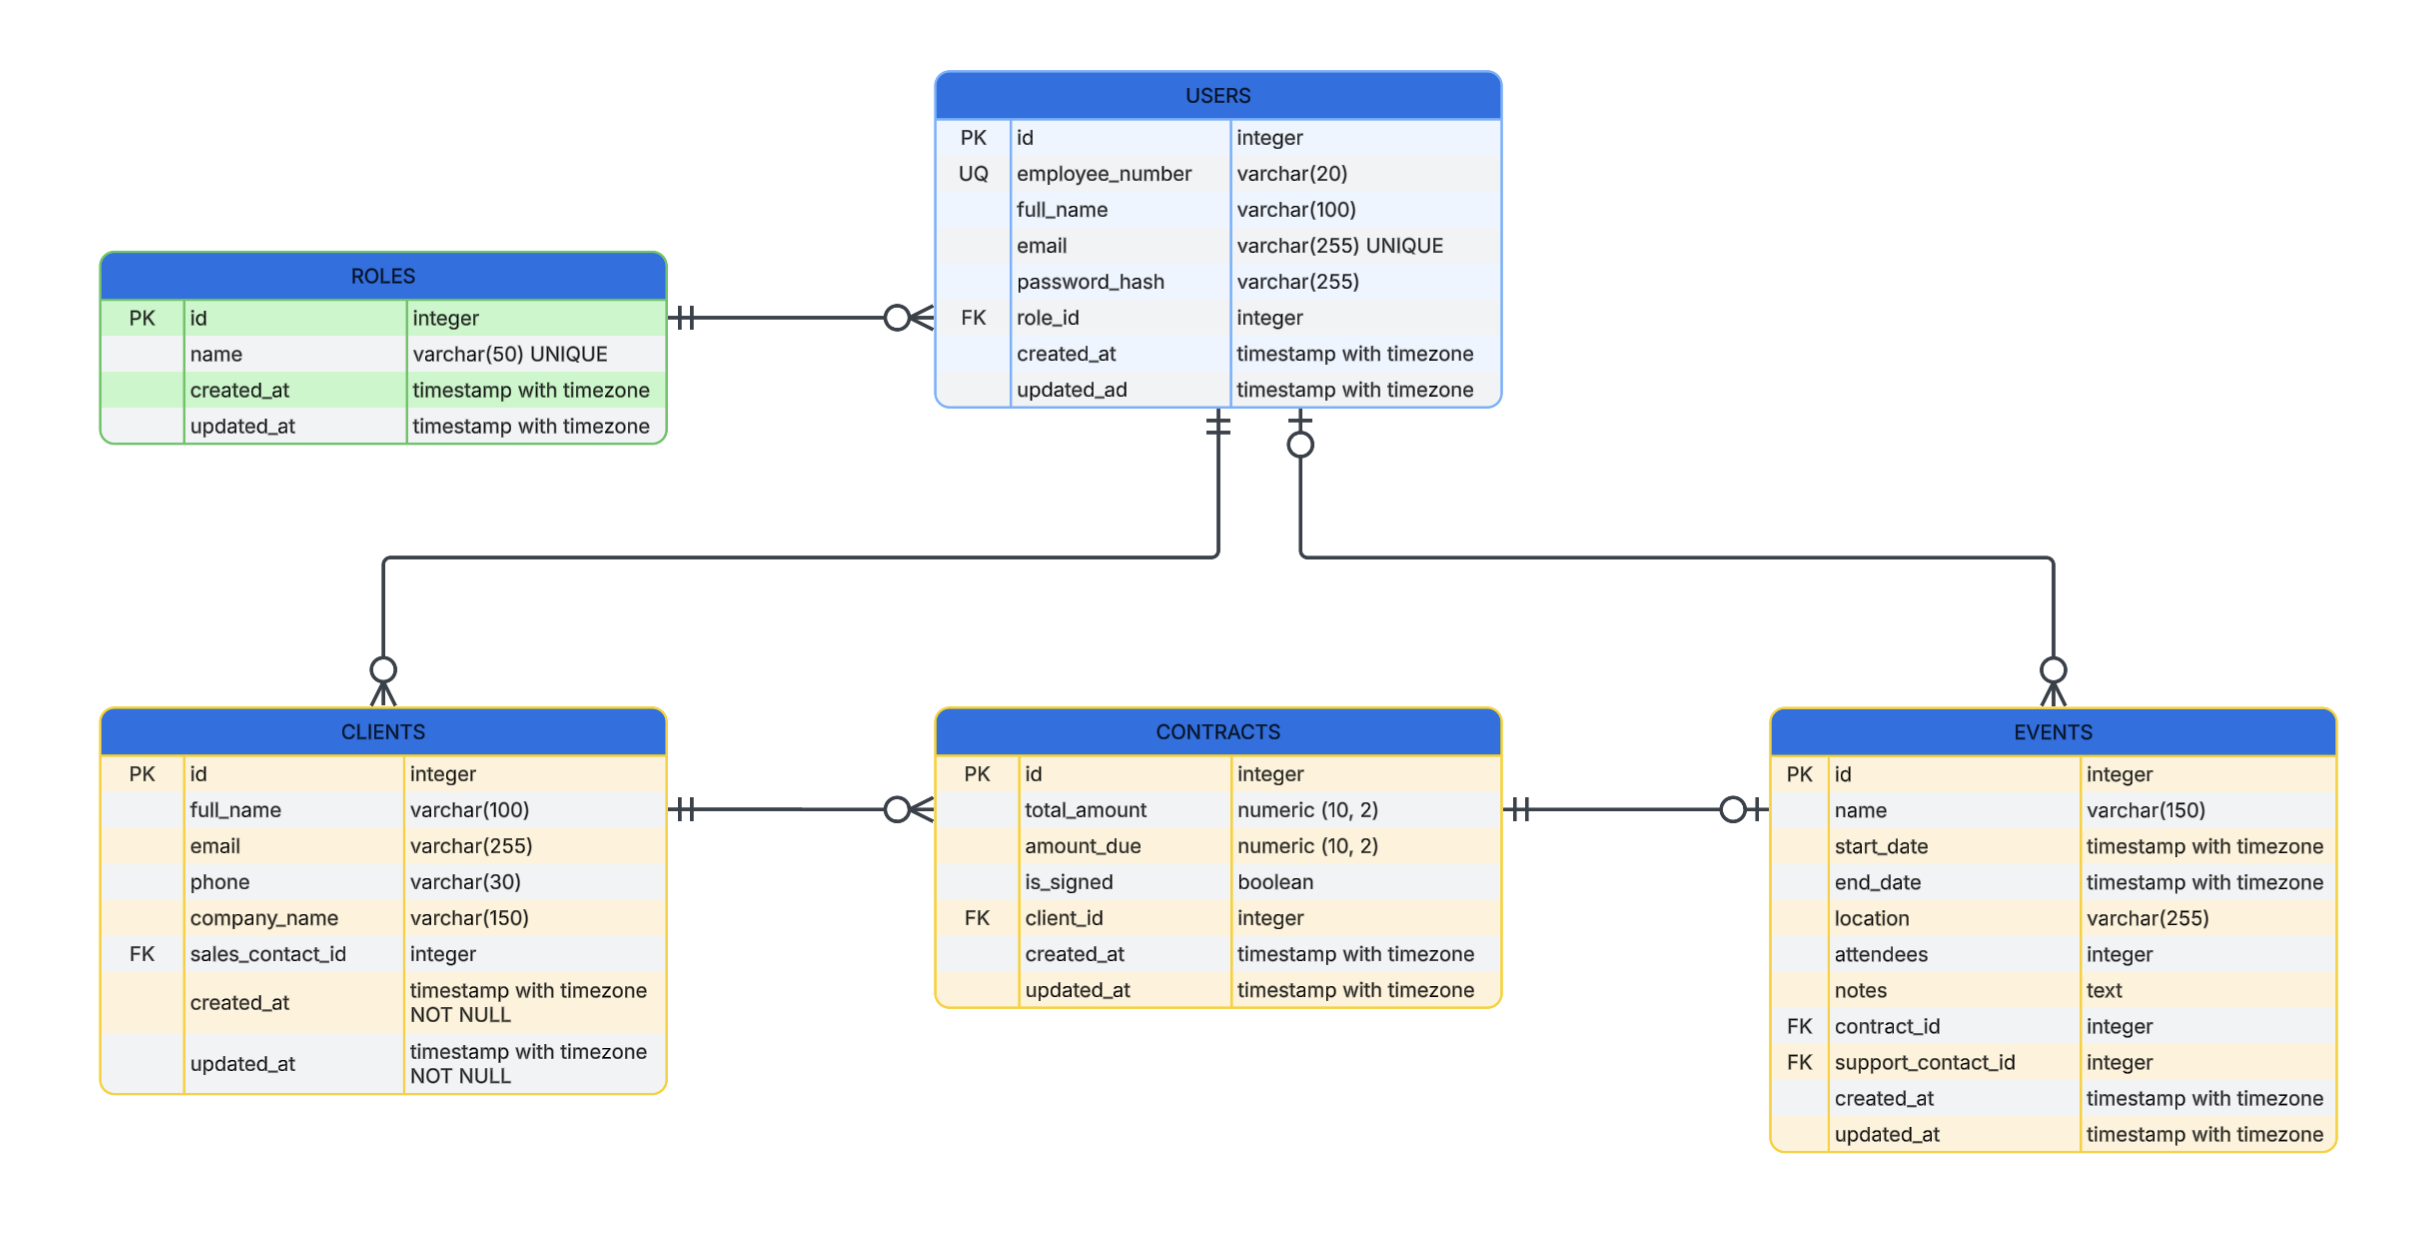
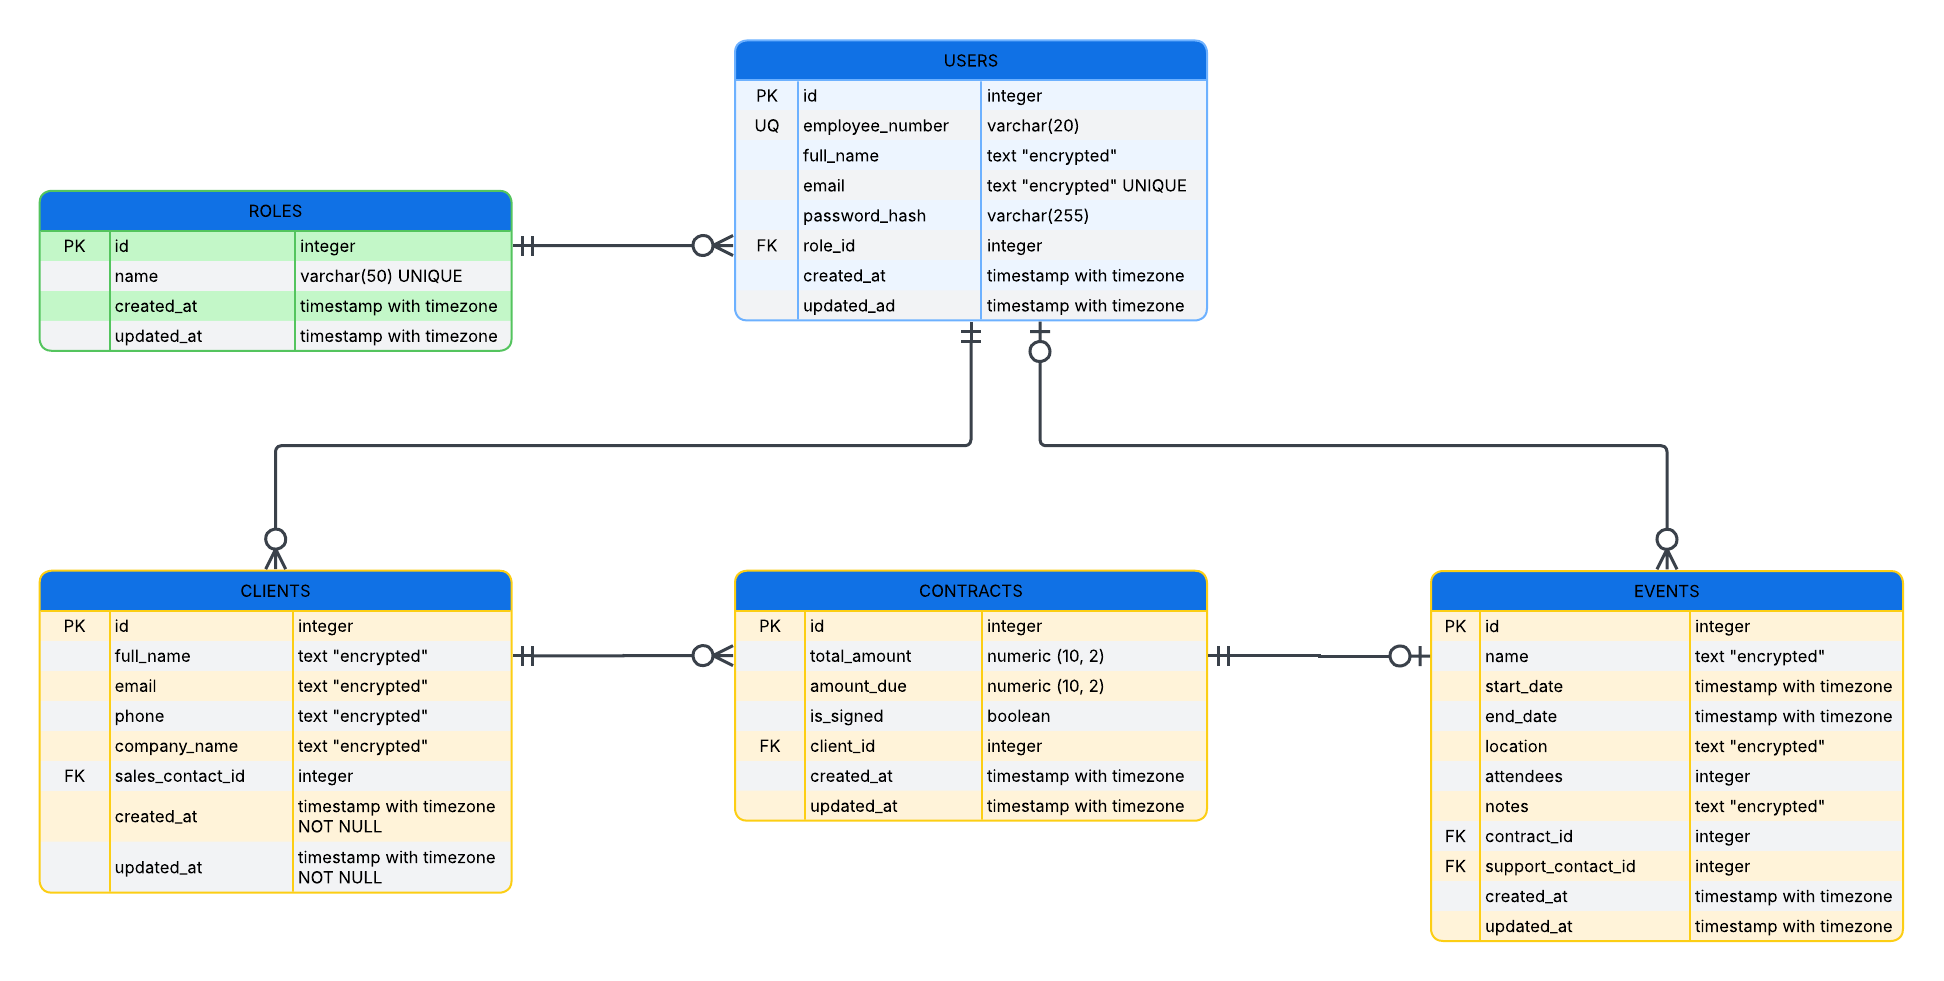
Encrypt personal data in the database

Changed region(s): [[0.0, 0.0306, 0.9877, 0.9786]]

diff --git a/tests/integration/test_encryption.py b/tests/integration/test_encryption.py
@@ -1,0 +1,116 @@
+"""Tests showing that personal data is encrypted in the database."""
+
+import base64
+
+import pytest
+from click.testing import CliRunner
+from sqlalchemy import Text, select, type_coerce
+from sqlalchemy.exc import IntegrityError
+
+from epicevents import config
+from epicevents.controllers.main import cli
+from epicevents.exceptions import ConfigurationError
+from epicevents.models import Client, Event, User
+from epicevents.repositories import ClientRepository, UserRepository
+from tests.conftest import PASSWORD, create_event
+
+OTHER_KEY = base64.urlsafe_b64encode(b"o" * 64).decode()
+
+
+def stored(session, model, column, row_id):
+    """Return the value exactly as the database stores it, without decrypting."""
+    table = model.__table__
+    query = select(type_coerce(table.c[column], Text)).where(table.c.id == row_id)
+    return session.scalar(query)
+
+
+def test_a_client_is_unreadable_in_the_database(session, client):
+    """Name, email, phone and company are stored encrypted."""
+    for column in ("full_name", "email", "phone", "company_name"):
+        assert stored(session, Client, column, client.id) != getattr(client, column)
+
+
+def test_the_application_reads_the_client_in_clear(session, client):
+    """Decryption is automatic: the application sees the original text."""
+    session.expire_all()
+
+    found = ClientRepository(session).get(client.id)
+
+    assert found.full_name == "Kevin Casey"
+
+
+def test_a_collaborator_email_is_unreadable_in_the_database(session, sales_user):
+    assert stored(session, User, "email", sales_user.id) != sales_user.email
+    assert stored(session, User, "full_name", sales_user.id) != (sales_user.full_name)
+
+
+def test_event_details_are_unreadable_in_the_database(
+    session, signed_contract, support_user
+):
+    event = create_event(session, signed_contract, support_user)
+    event.notes = "Kate needs to organize the DJ."
+    session.commit()
+
+    for column in ("name", "location", "notes"):
+        assert stored(session, Event, column, event.id) != getattr(event, column)
+
+
+def test_a_collaborator_is_still_found_by_email(session, sales_user):
+    """Deterministic encryption: the searched email is encrypted the same way."""
+    session.expire_all()
+
+    assert UserRepository(session).get_by_email(sales_user.email).id == sales_user.id
+
+
+def test_an_email_is_still_unique(session, sales_user):
+    """Two identical emails give two identical encrypted values: refused."""
+    duplicate = User(
+        employee_number="EE-999",
+        full_name="Someone Else",
+        email=sales_user.email,
+        password_hash="x",
+        role_id=sales_user.role_id,
+    )
+    session.add(duplicate)
+
+    with pytest.raises(IntegrityError):
+        session.commit()
+
+
+def test_a_missing_key_is_reported(session, client, monkeypatch):
+    monkeypatch.setattr(config, "ENCRYPTION_KEY", None)
+    session.expire_all()
+
+    with pytest.raises(ConfigurationError, match="ENCRYPTION_KEY is missing"):
+        ClientRepository(session).get(client.id).full_name
+
+
+def test_a_malformed_key_is_reported(session, client, monkeypatch):
+    monkeypatch.setattr(config, "ENCRYPTION_KEY", "too-short")
+    session.expire_all()
+
+    with pytest.raises(ConfigurationError, match="not a valid key"):
+        ClientRepository(session).get(client.id).full_name
+
+
+def test_data_encrypted_with_another_key_is_reported(session, client, monkeypatch):
+    """Changing the key makes the existing data unreadable, and says so."""
+    monkeypatch.setattr(config, "ENCRYPTION_KEY", OTHER_KEY)
+    session.expire_all()
+
+    with pytest.raises(ConfigurationError, match="cannot be decrypted"):
+        ClientRepository(session).get(client.id).full_name
+
+
+def test_a_command_reports_a_missing_key_without_a_traceback(
+    cli_database, sales_user, monkeypatch
+):
+    """Searching by email encrypts the email first: a missing key is a message."""
+    email = sales_user.email
+    monkeypatch.setattr(config, "ENCRYPTION_KEY", None)
+
+    result = CliRunner().invoke(cli, ["login", "--email", email], input=f"{PASSWORD}\n")
+
+    assert result.exit_code == 1
+    assert "ENCRYPTION_KEY is missing" in result.stderr
+    assert "Traceback" not in result.output + result.stderr

diff --git a/epicevents/models/encrypted.py b/epicevents/models/encrypted.py
@@ -1,0 +1,61 @@
+"""Encrypted text columns: encrypted when written, decrypted when read."""
+
+import base64
+import binascii
+
+from cryptography.exceptions import InvalidTag
+from cryptography.hazmat.primitives.ciphers.aead import AESSIV
+from sqlalchemy import Text
+from sqlalchemy.types import TypeDecorator
+
+from epicevents import config
+from epicevents.exceptions import ConfigurationError
+
+GENERATE_KEY = (
+    'python -c "import base64, os; '
+    'print(base64.urlsafe_b64encode(os.urandom(64)).decode())"'
+)
+
+
+def _cipher() -> AESSIV:
+    """Return the cipher built from ENCRYPTION_KEY, refusing a missing or bad key."""
+    if not config.ENCRYPTION_KEY:
+        raise ConfigurationError(
+            "ENCRYPTION_KEY is missing from the .env file. "
+            f"Generate one with: {GENERATE_KEY}"
+        )
+    try:
+        return AESSIV(base64.urlsafe_b64decode(config.ENCRYPTION_KEY))
+    except (binascii.Error, ValueError):
+        raise ConfigurationError(
+            "ENCRYPTION_KEY is not a valid key. " f"Generate one with: {GENERATE_KEY}"
+        ) from None
+
+
+class EncryptedString(TypeDecorator):
+    """A text column stored encrypted, and read back in clear by the application."""
+
+    impl = Text
+    cache_ok = True
+
+    def process_bind_param(self, value, dialect):
+        """Encrypt a value on its way to the database."""
+        if value is None:
+            return None
+        encrypted = _cipher().encrypt(value.encode("utf-8"), associated_data=None)
+        return base64.urlsafe_b64encode(encrypted).decode("ascii")
+
+    def process_result_value(self, value, dialect):
+        """Decrypt a value coming back from the database."""
+        if value is None:
+            return None
+        try:
+            decrypted = _cipher().decrypt(
+                base64.urlsafe_b64decode(value), associated_data=None
+            )
+        except (InvalidTag, binascii.Error):
+            raise ConfigurationError(
+                "A database value cannot be decrypted: "
+                "ENCRYPTION_KEY does not match the key used to encrypt it."
+            ) from None
+        return decrypted.decode("utf-8")

diff --git a/epicevents/models/event.py b/epicevents/models/event.py
@@ -3,10 +3,11 @@
 from datetime import datetime
 from typing import TYPE_CHECKING, Optional
 
-from sqlalchemy import ForeignKey, String, DateTime, Integer, Text
+from sqlalchemy import ForeignKey, DateTime, Integer
 from sqlalchemy.orm import Mapped, mapped_column, relationship
 
 from epicevents.models.base import ModelBase
+from epicevents.models.encrypted import EncryptedString
 
 if TYPE_CHECKING:
     from epicevents.models.contract import Contract
@@ -18,14 +19,15 @@ class Event(ModelBase):
 
     __tablename__ = "events"
 
-    name: Mapped[str] = mapped_column(String(150))
+    # Encrypted in the database; lengths are checked by the validators
+    name: Mapped[str] = mapped_column(EncryptedString)
 
     start_date: Mapped[datetime] = mapped_column(DateTime(timezone=True))
     end_date: Mapped[datetime] = mapped_column(DateTime(timezone=True))
 
-    location: Mapped[str] = mapped_column(String(255))
+    location: Mapped[str] = mapped_column(EncryptedString)
     attendees: Mapped[int] = mapped_column(Integer)
-    notes: Mapped[Optional[str]] = mapped_column(Text)
+    notes: Mapped[Optional[str]] = mapped_column(EncryptedString)
 
     # Foreign key to the contract: one contract has at most one event
     contract_id: Mapped[int] = mapped_column(ForeignKey("contracts.id"), unique=True)

diff --git a/epicevents/controllers/errors.py b/epicevents/controllers/errors.py
@@ -2,11 +2,12 @@
 
 import functools
 
-from sqlalchemy.exc import OperationalError
+from sqlalchemy.exc import OperationalError, StatementError
 
 from epicevents.exceptions import (
     AuthenticationError,
     AuthorizationError,
+    ConfigurationError,
     ValidationError,
 )
 from epicevents.views.console import print_error
@@ -24,11 +25,22 @@ def handle_errors(command):
     def wrapper(*args, **kwargs):
         try:
             return command(*args, **kwargs)
-        except (AuthenticationError, AuthorizationError, ValidationError) as error:
+        except (
+            AuthenticationError,
+            AuthorizationError,
+            ValidationError,
+            ConfigurationError,
+        ) as error:
             print_error(str(error))
             raise SystemExit(1)
         except OperationalError:
             print_error(DATABASE_UNREACHABLE)
             raise SystemExit(1)
+        except StatementError as error:
+            # SQLAlchemy wraps an error raised while encrypting a searched value
+            if isinstance(error.orig, ConfigurationError):
+                print_error(str(error.orig))
+                raise SystemExit(1)
+            raise
 
     return wrapper

diff --git a/tests/conftest.py b/tests/conftest.py
@@ -1,5 +1,6 @@
 """Fixtures shared by the test suite."""
 
+import base64
 from datetime import timezone, datetime
 from decimal import Decimal
 
@@ -7,12 +8,15 @@ import pytest
 from sqlalchemy import create_engine, select, event
 from sqlalchemy.orm import sessionmaker
 
-from epicevents import database
+from epicevents import config, database
 from epicevents.services import auth
 from epicevents.database import Base
 from epicevents.models import Role, RoleName, User, Contract, Event, Client
 
 PASSWORD = "DummyPassword42!"
+
+# 64 bytes encoded in base64, the format AES-SIV expects: a fake key for tests.
+TEST_ENCRYPTION_KEY = base64.urlsafe_b64encode(b"k" * 64).decode()
 
 
 @pytest.fixture
@@ -157,6 +161,12 @@ def signed_contract(session, client):
 def test_secret(monkeypatch):
     """Sign the test tokens with a throwaway secret, never the real one."""
     monkeypatch.setattr(auth, "JWT_SECRET", "fake-jwt-secret-for-testing-purposes-only")
+
+
+@pytest.fixture(autouse=True)
+def test_encryption_key(monkeypatch):
+    """Encrypt the test data with a throwaway key, never the real one."""
+    monkeypatch.setattr(config, "ENCRYPTION_KEY", TEST_ENCRYPTION_KEY)
 
 
 @pytest.fixture(autouse=True)

diff --git a/epicevents/models/client.py b/epicevents/models/client.py
@@ -2,10 +2,11 @@
 
 from typing import TYPE_CHECKING
 
-from sqlalchemy import String, ForeignKey
+from sqlalchemy import ForeignKey
 from sqlalchemy.orm import Mapped, mapped_column, relationship
 
 from epicevents.models.base import ModelBase
+from epicevents.models.encrypted import EncryptedString
 
 if TYPE_CHECKING:
     from epicevents.models.contract import Contract
@@ -17,10 +18,11 @@ class Client(ModelBase):
 
     __tablename__ = "clients"
 
-    full_name: Mapped[str] = mapped_column(String(100))
-    email: Mapped[str] = mapped_column(String(255))
-    phone: Mapped[str] = mapped_column(String(30))
-    company_name: Mapped[str] = mapped_column(String(150))
+    # Personal data, encrypted in the database; lengths checked by the validators
+    full_name: Mapped[str] = mapped_column(EncryptedString)
+    email: Mapped[str] = mapped_column(EncryptedString)
+    phone: Mapped[str] = mapped_column(EncryptedString)
+    company_name: Mapped[str] = mapped_column(EncryptedString)
 
     # Foreign key: each client is assigned to one sales user
     sales_contact_id: Mapped[int] = mapped_column(ForeignKey("users.id"))

diff --git a/epicevents/models/user.py b/epicevents/models/user.py
@@ -6,6 +6,7 @@ from sqlalchemy import String, ForeignKey
 from sqlalchemy.orm import Mapped, mapped_column, relationship
 
 from epicevents.models.base import ModelBase
+from epicevents.models.encrypted import EncryptedString
 from epicevents.security import hash_password, verify_password
 
 if TYPE_CHECKING:
@@ -20,8 +21,9 @@ class User(ModelBase):
     __tablename__ = "users"
 
     employee_number: Mapped[str] = mapped_column(String(20), unique=True)
-    full_name: Mapped[str] = mapped_column(String(100))
-    email: Mapped[str] = mapped_column(String(255), unique=True)
+    # Encrypted in the database; lengths checked by the validators
+    full_name: Mapped[str] = mapped_column(EncryptedString)
+    email: Mapped[str] = mapped_column(EncryptedString, unique=True)
     password_hash: Mapped[str] = mapped_column(String(255))
 
     # Foreign key

diff --git a/epicevents/exceptions.py b/epicevents/exceptions.py
@@ -23,3 +23,7 @@ class AuthorizationError(Exception):
 
 class ValidationError(Exception):
     """Raised when what the collaborator asked for cannot be accepted."""
+
+
+class ConfigurationError(Exception):
+    """Raised when a setting of the .env file is missing or wrong."""

diff --git a/epicevents/config.py b/epicevents/config.py
@@ -16,6 +16,8 @@ DATABASE_URL = (
     f"postgresql+psycopg2://{DB_USER}:{DB_PASSWORD}@{DB_HOST}:{DB_PORT}/{DB_NAME}"
 )
 
+ENCRYPTION_KEY = os.getenv("ENCRYPTION_KEY")
+
 JWT_SECRET = os.getenv("JWT_SECRET")
 
 SENTRY_DSN = os.getenv("SENTRY_DSN")

diff --git a/README.md b/README.md
@@ -71,9 +71,17 @@ Les variables attendues dans `.env` :
 | `DB_HOST`                 | Hôte de la base (`localhost`)                                       |
 | `DB_PORT`                 | Hôte de la base (`5433`)                                            |
 | `DB_NAME`                 | Nom de la base (`epicevents`)                                       |
+| `ENCRYPTION_KEY`          | Clé de chiffrement des données personnelles en base                 |
 | `JWT_SECRET`              | Secret de signature des jetons de session (32 caractères minimum)   |
 | `SENTRY_DSN`              | Adresse d'envoi des rapports Sentry (facultative)                   |
 
+
+
+Pour générer la clé de chiffrement `ENCRYPTION_KEY` :
+
+```bash
+python -c "import base64, os; print(base64.urlsafe_b64encode(os.urandom(64)).decode())"
+```
 
 Pour générer une clé secrète ou un jeton aléatoire :
 
